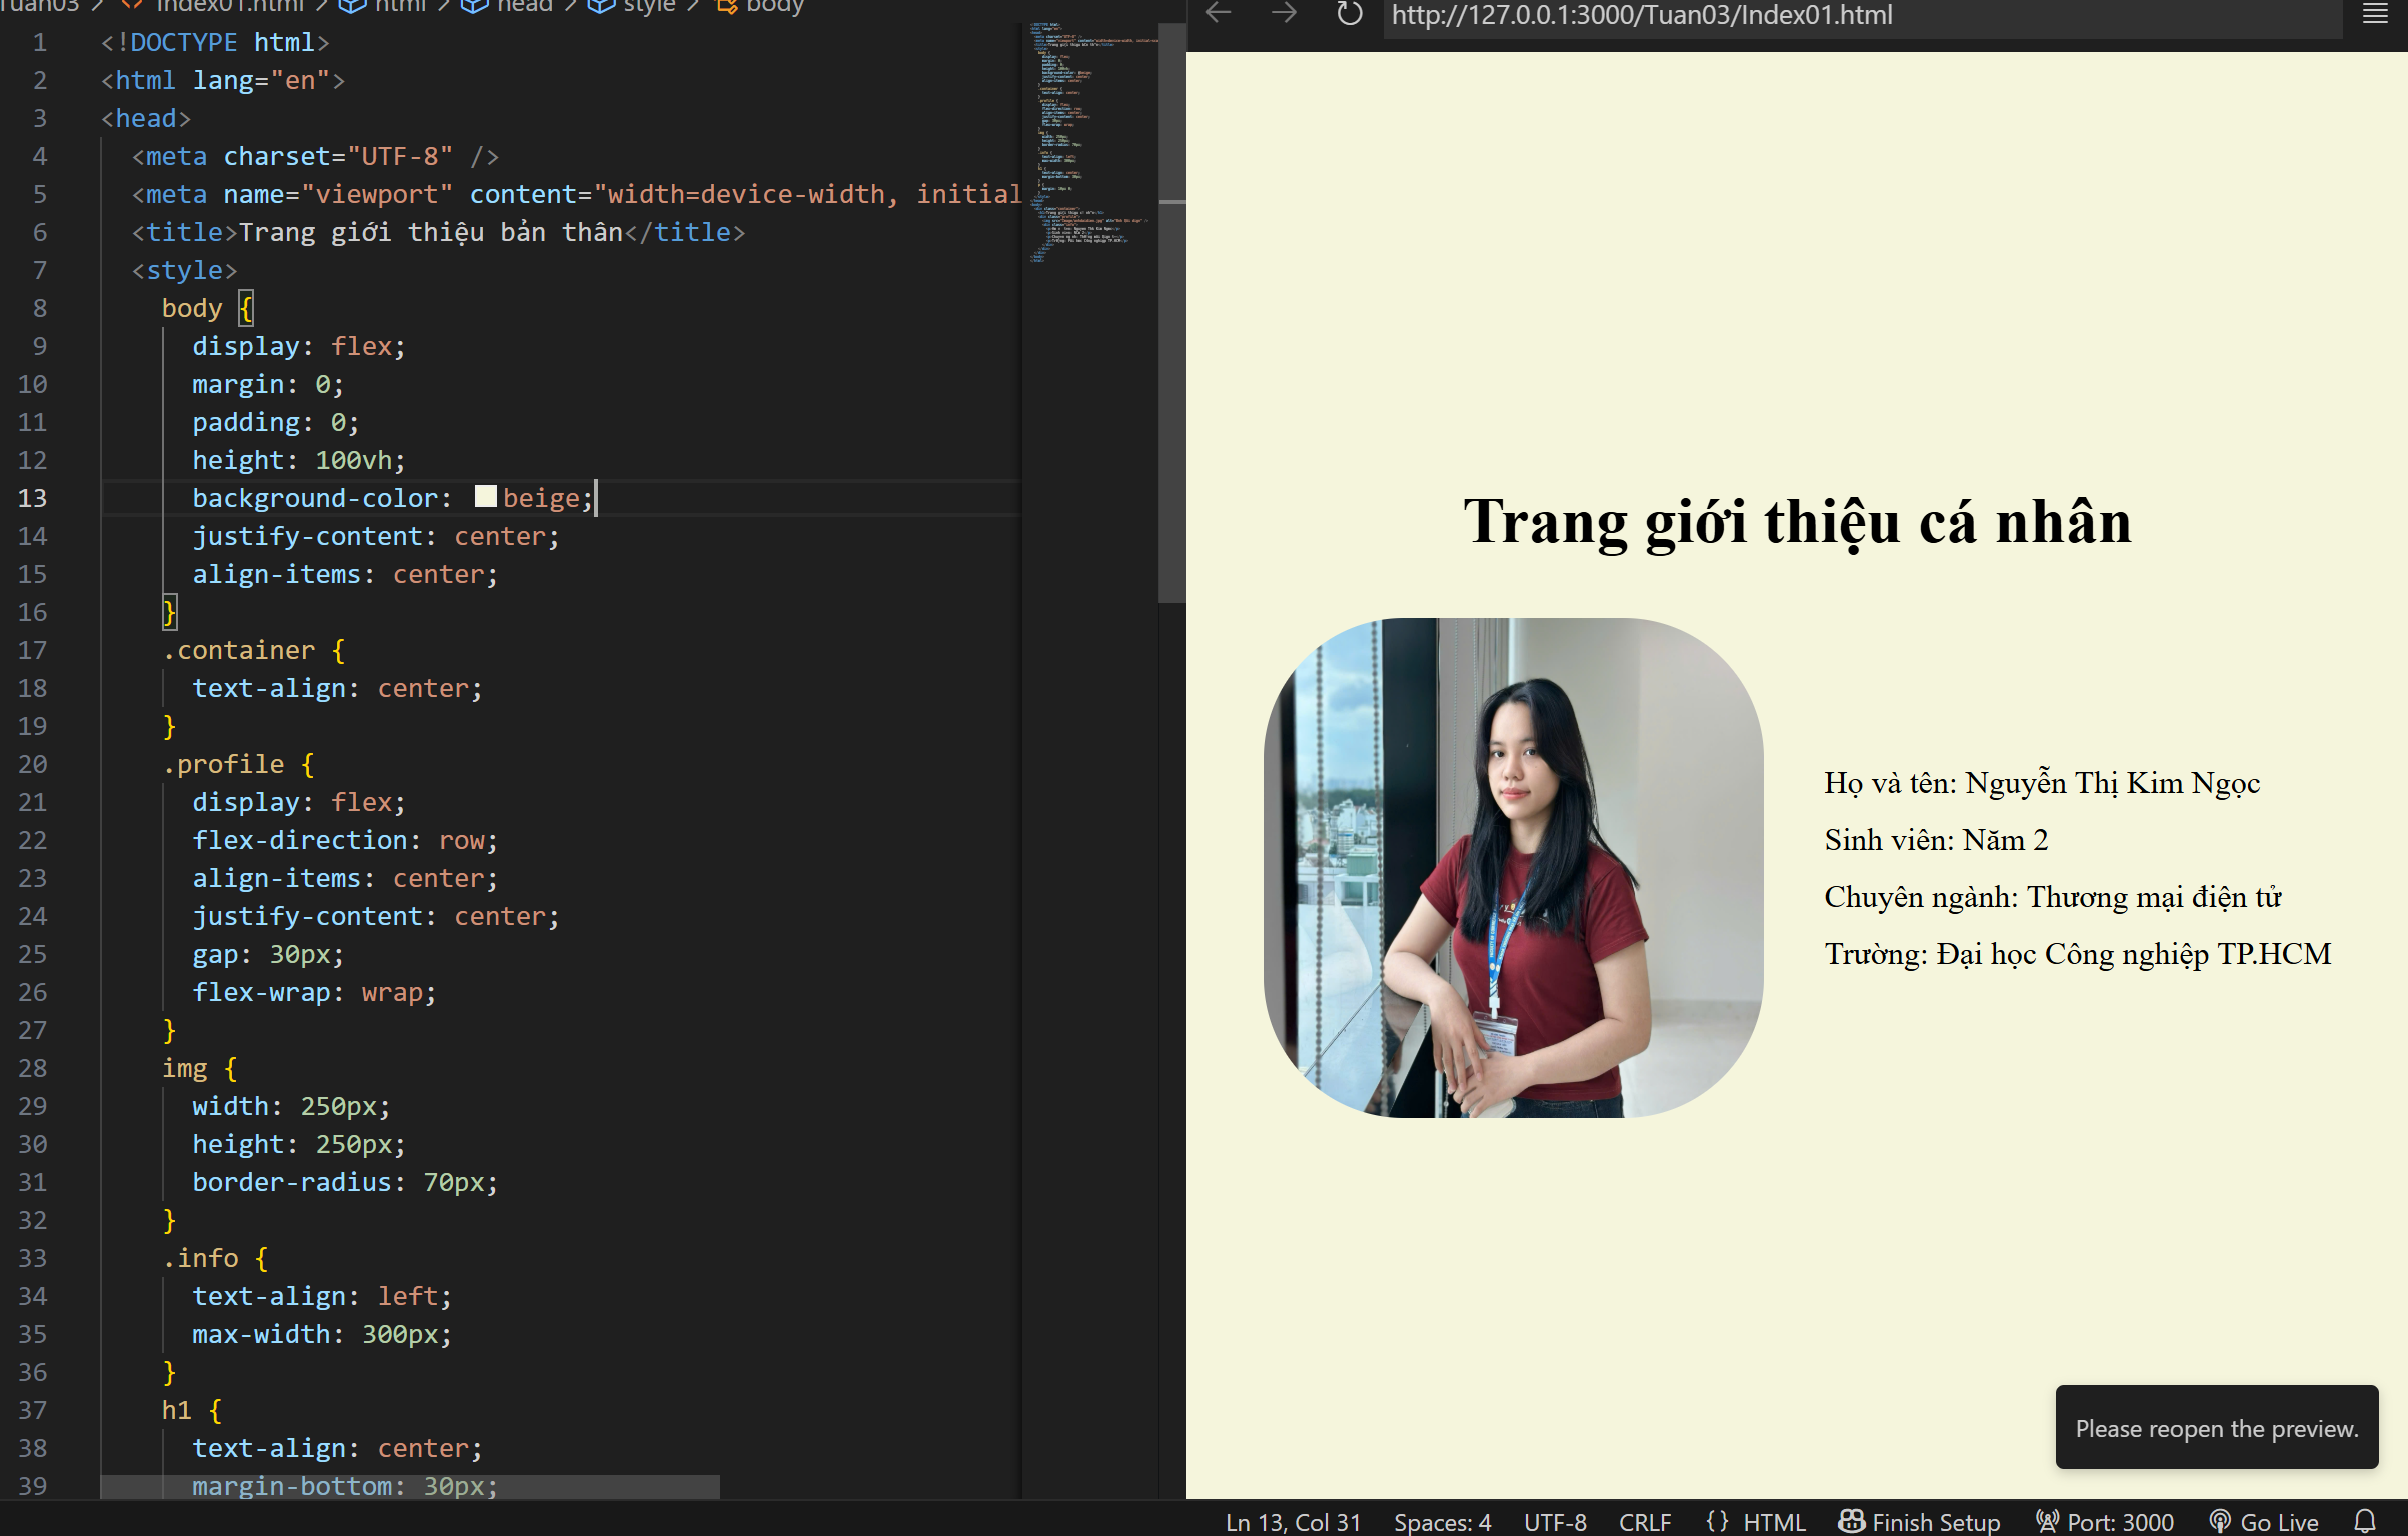
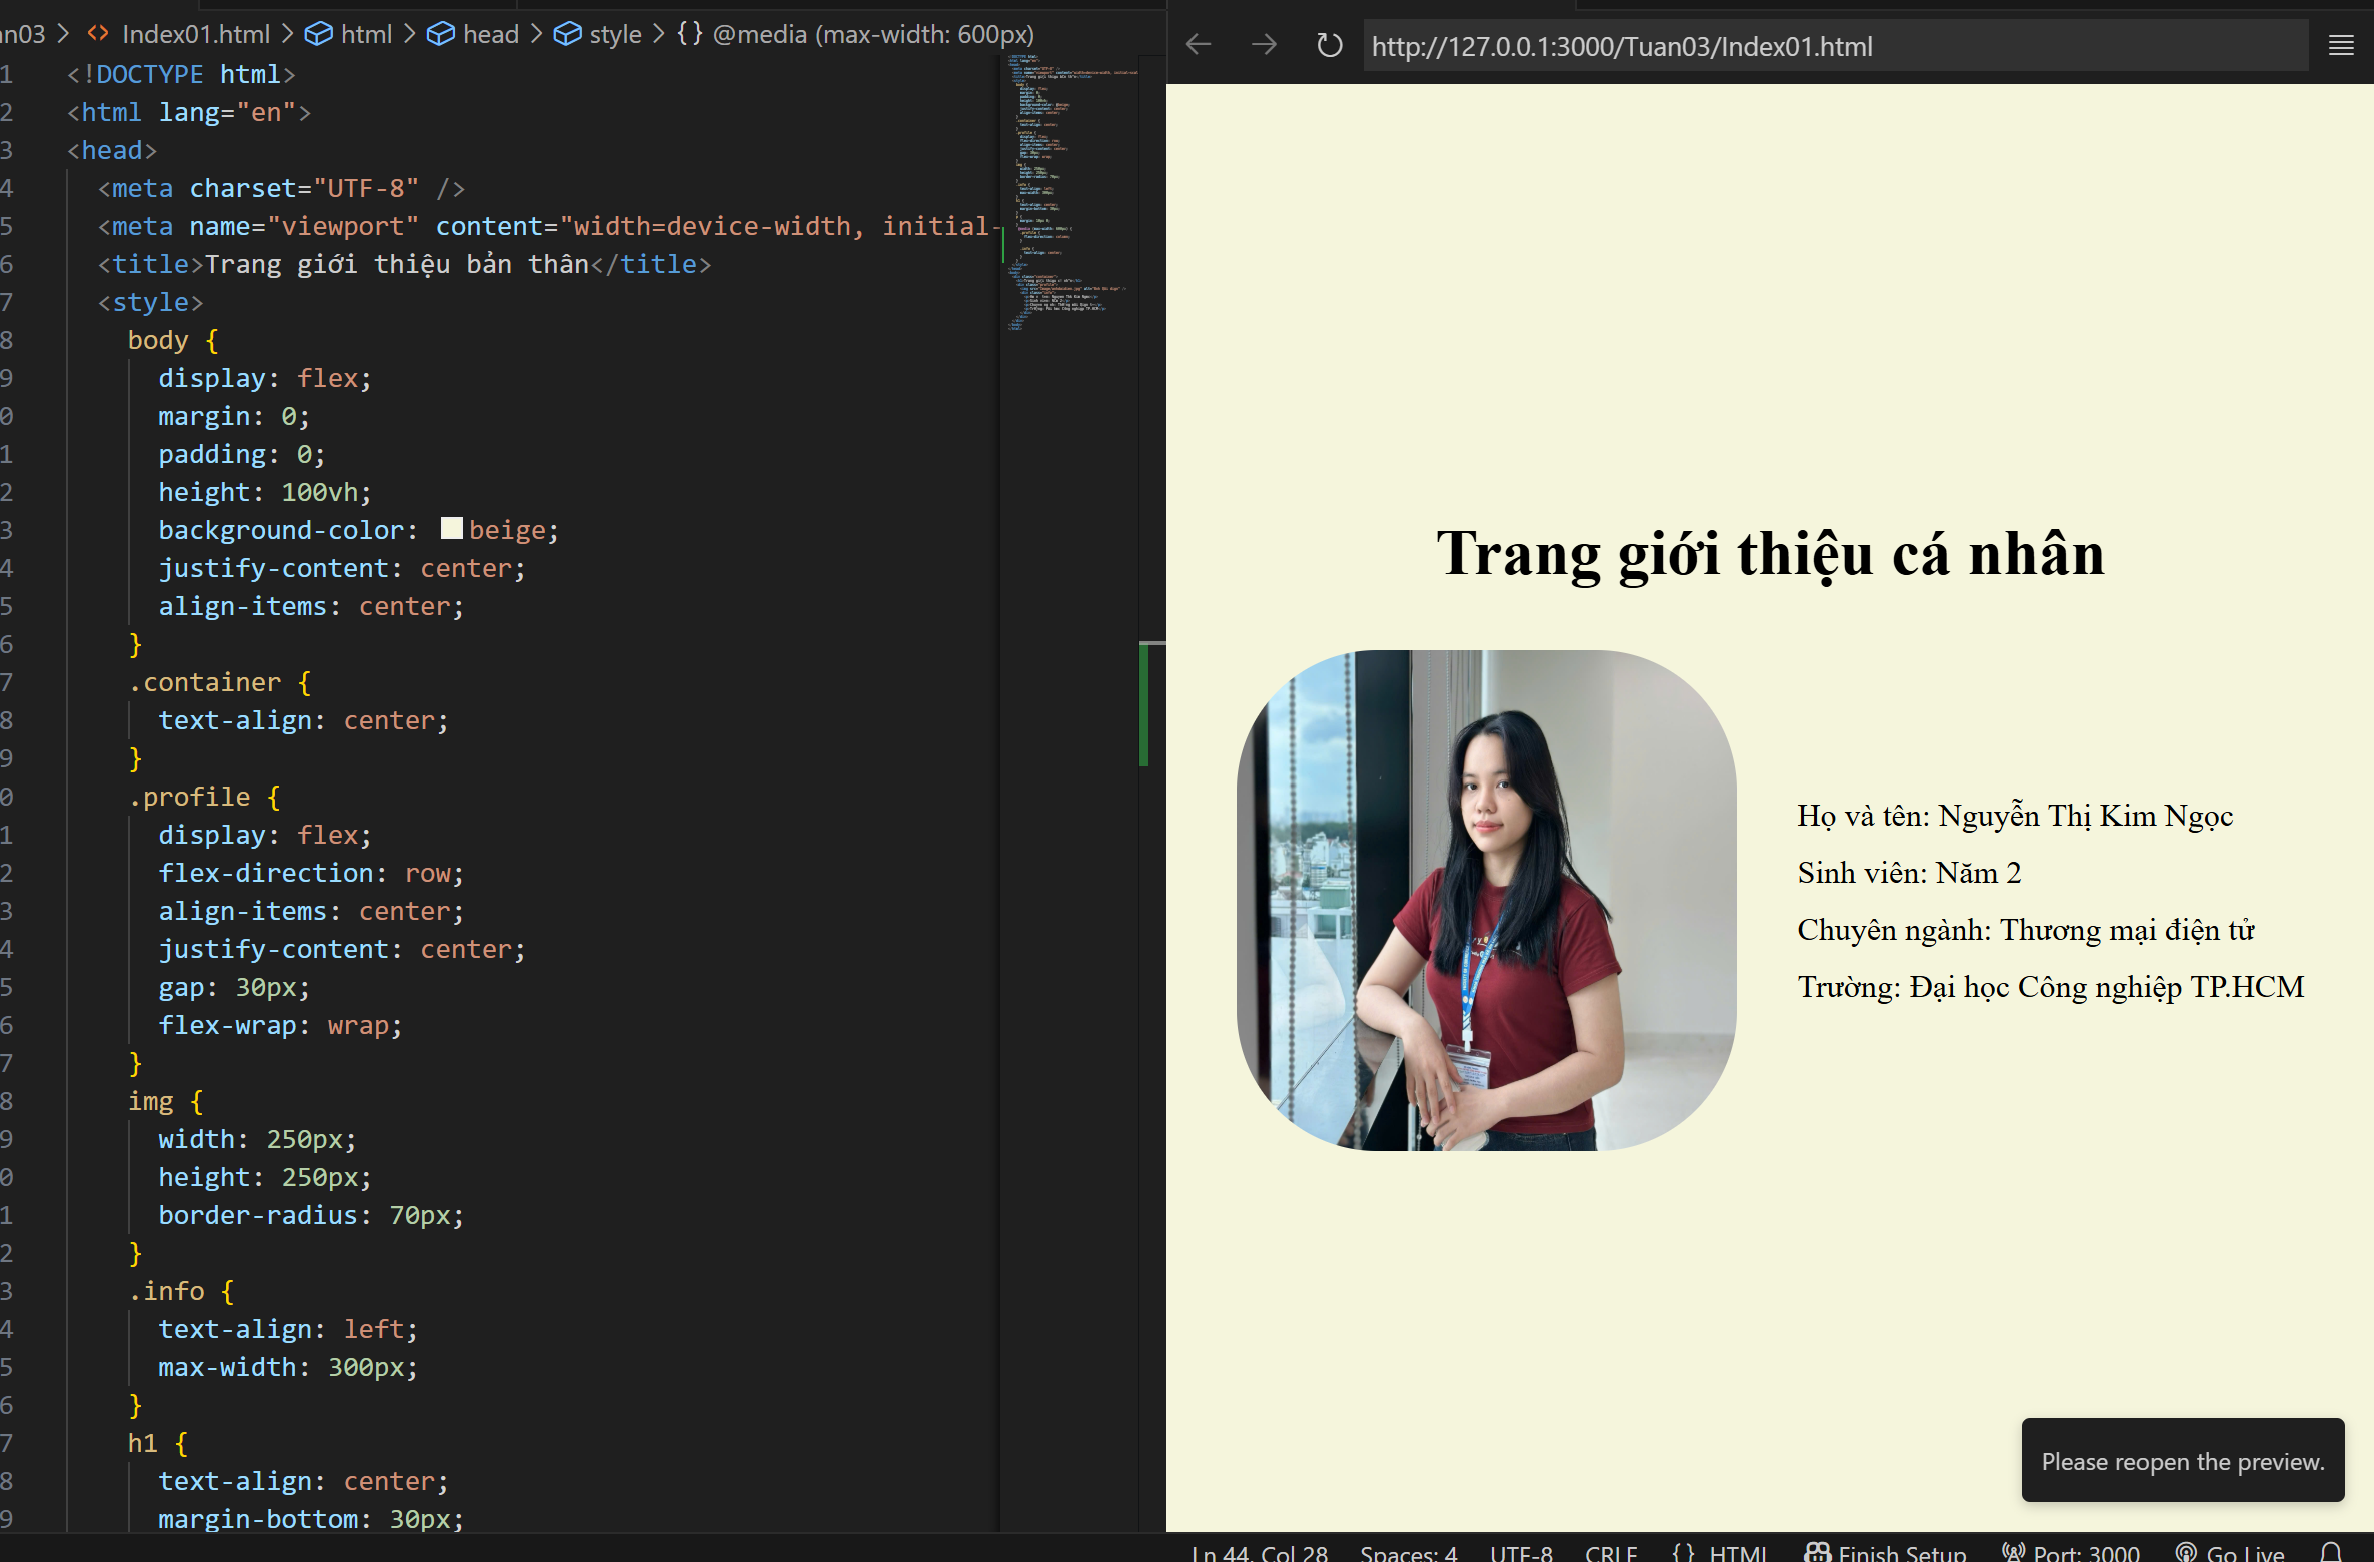
add cau 1 and 2

diff --git a/Tuan03/index02.html b/Tuan03/index02.html
@@ -1,0 +1,64 @@
+<!DOCTYPE html>
+<html lang="en">
+<head>
+  <meta charset="UTF-8">
+  <meta name="viewport" content="width=device-width, initial-scale=1.0">
+  <title>Danh sách môn học</title>
+  <style>
+    body {
+      font-family: Arial, sans-serif;
+      background-color: beige;
+      margin: 0;
+      padding: 20px;
+    }
+
+    h1 {
+      text-align: center;
+    }
+
+    .container {
+      display: grid;
+      grid-template-columns:2fr 2fr 2fr;
+      gap: 20px;
+      max-width: 800px;
+    }
+    .card {
+      border: 1px solid #999;
+      padding: 15px;
+      background-color: rgb(227, 254, 107);
+      border-radius: 5px;
+      text-align: center;
+    }
+    .card .number {
+     text-align: center;
+    }
+  </style>
+  <h1>Danh sách các môn học yêu thích</h1>
+  <div class="container">
+    <div class="card">
+      <div class="number">1</div>
+      <div class="subject">Thiết kế đồ họa</div>
+    </div>
+    <div class="card">
+      <div class="number">2</div>
+      <div class="subject">Marketing số</div>
+    </div>
+    <div class="card">
+      <div class="number">3</div>
+      <div class="subject">Nguyên lí TMDT</div>
+    </div>
+    <div class="card">
+      <div class="number">4</div>
+      <div class="subject">Hệ thống WEB</div>
+    </div>
+    <div class="card">
+      <div class="number">5</div>
+      <div class="subject">Cơ sở dữ liệu</div>
+    </div>
+    <div class="card">
+      <div class="number">6</div>
+      <div class="subject">Luật kinh doanh</div>
+    </div>
+  </div>
+</body>
+</html>

diff --git a/Tuan03/Index01.html b/Tuan03/Index01.html
@@ -41,6 +41,15 @@
     p {
       margin: 10px 0;
     }    
+     @media (max-width: 600px) {
+      .profile {
+        flex-direction: column;
+      }
+
+      .info {
+        text-align: center;
+      }
+    }
   </style>
 </head>
 <body>
